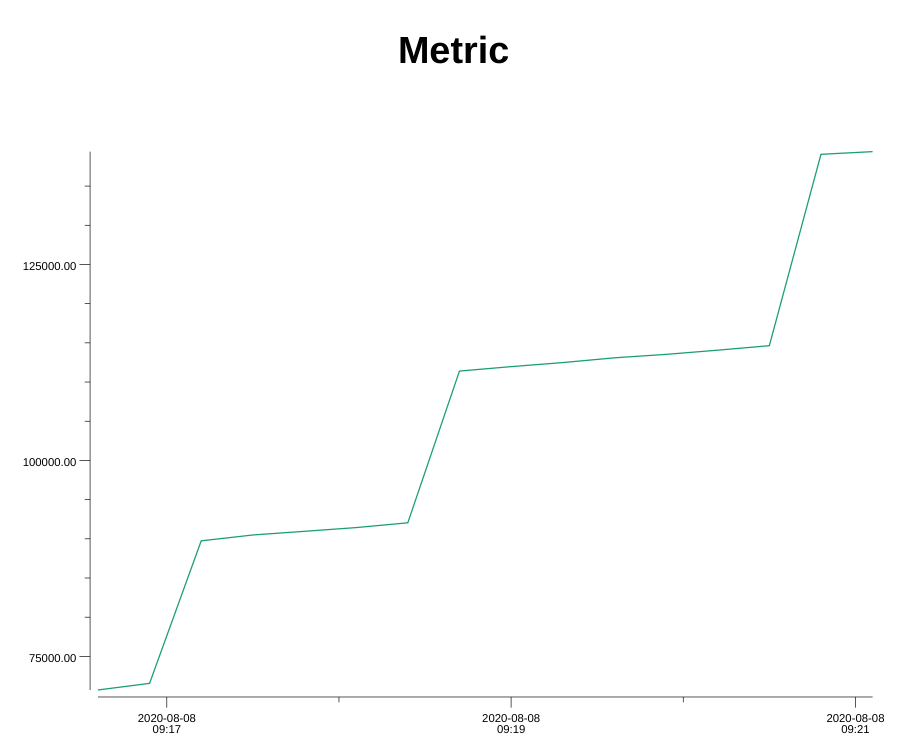
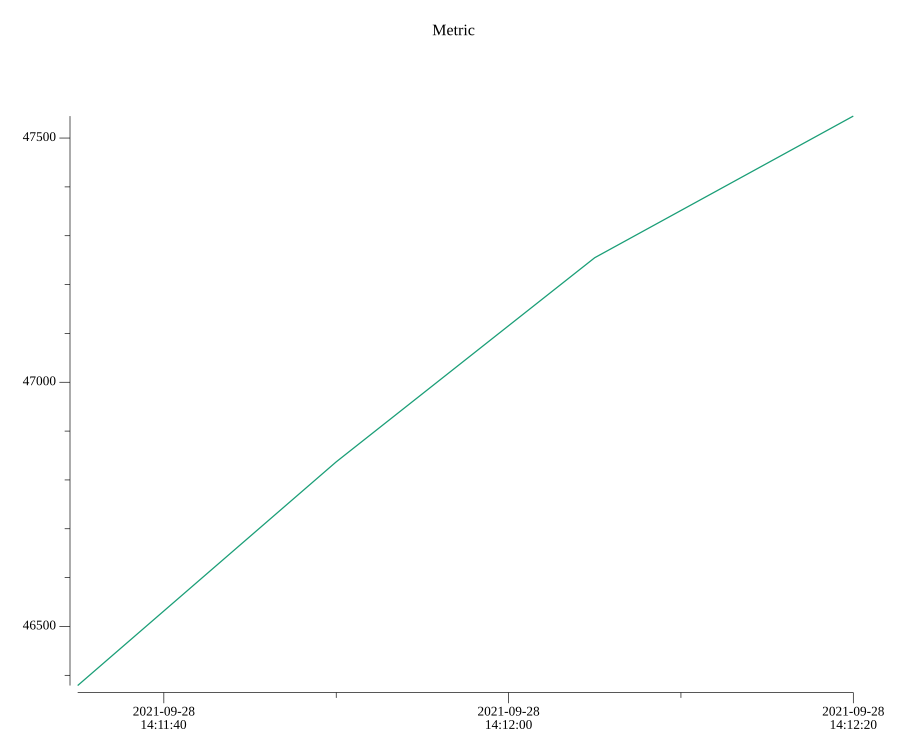
fix(plot): use default font and test

diff --git a/pkg/plot/plot.go b/pkg/plot/plot.go
@@ -9,7 +9,6 @@ import (
 
 	"github.com/prometheus/common/model"
 	"gonum.org/v1/plot"
-	"gonum.org/v1/plot/font"
 	"gonum.org/v1/plot/palette/brewer"
 	"gonum.org/v1/plot/plotter"
 	"gonum.org/v1/plot/vg"
@@ -20,26 +19,12 @@ import (
 var labelText = regexp.MustCompile(`(.*)`)
 
 // Plot creates a plot from metric data and saves it to a temporary file.
-// It's the callers responsibility to remove the returned file when no longer needed.
+// It's the callers' responsibility to remove the returned file when no longer needed.
 func Plot(metrics model.Matrix, title, format string) (io.WriterTo, error) {
 	p := plot.New()
-
-	titleFont, err := vg.MakeFont("Helvetica-Bold", vg.Centimeter)
-	if err != nil {
-		return nil, fmt.Errorf("failed to load font: %v", err)
-	}
-	textFont, err := vg.MakeFont("Helvetica", 3*vg.Millimeter)
-	if err != nil {
-		return nil, fmt.Errorf("failed to load font: %v", err)
-	}
-
 	p.Title.Text = title
-	p.Title.TextStyle = draw.TextStyle{Font: font.Font{Typeface: font.Typeface(titleFont.Name())}}
 	p.Title.Padding = 2 * vg.Centimeter
-	p.X.Tick.Marker = plot.TimeTicks{Format: "2006-01-02\n15:04"}
-	p.X.Tick.Label.Font = font.Font{Typeface: font.Typeface(textFont.Name())}
-	p.Y.Tick.Label.Font = font.Font{Typeface: font.Typeface(textFont.Name())}
-	p.Legend.TextStyle = draw.TextStyle{Font: font.Font{Typeface: font.Typeface(textFont.Name())}}
+	p.X.Tick.Marker = plot.TimeTicks{Format: "2006-01-02\n15:04:05"}
 	p.Legend.Top = true
 	p.Legend.YOffs = 15 * vg.Millimeter
 
@@ -82,29 +67,32 @@ func Plot(metrics model.Matrix, title, format string) (io.WriterTo, error) {
 	margin := 6 * vg.Millimeter
 	width := 24 * vg.Centimeter
 	height := 20 * vg.Centimeter
-	c, err := draw.NewFormattedCanvas(width, height, format)
-	if err != nil {
-		return nil, fmt.Errorf("failed to create canvas: %v", err)
+	c, err1 := draw.NewFormattedCanvas(width, height, format)
+	if err1 != nil {
+		return nil, fmt.Errorf("failed to create canvas: %v", err1)
 	}
 	p.Draw(draw.Crop(draw.New(c), margin, -margin, margin, -margin))
 
 	return c, nil
 }
 
-// PlotFile plots the metric and write to file
-func PlotFile(metrics model.Matrix, title string, format string, name string) error {
+// WriteToFile plots the metric and write to file
+func WriteToFile(metrics model.Matrix, title string, format string, name string) error {
 	w, err := Plot(metrics, title, format)
 	if err != nil {
 		return err
 	}
 
-	f, err := os.OpenFile(name, os.O_CREATE|os.O_WRONLY, 0666)
-	if err != nil {
+	f, err1 := os.OpenFile(name, os.O_CREATE|os.O_WRONLY, 0666)
+	if err1 != nil {
+		return err1
+	}
+
+	if _, err := w.WriteTo(f); err != nil {
 		return err
 	}
-	defer f.Close()
 
-	if _, err = w.WriteTo(f); err != nil {
+	if err := f.Close(); err != nil {
 		return err
 	}
 

diff --git a/pkg/plot/plot_test.go b/pkg/plot/plot_test.go
@@ -1,0 +1,58 @@
+package plot
+
+import (
+	"os"
+	"testing"
+
+	"github.com/prometheus/common/model"
+)
+
+func TestFile(t *testing.T) {
+	type args struct {
+		metrics model.Matrix
+		title   string
+		format  string
+		name    string
+	}
+	tests := []struct {
+		name    string
+		args    args
+		wantErr bool
+	}{
+		{
+			name: "normal",
+			args: args{
+				metrics: model.Matrix([]*model.SampleStream{
+					{
+						Metric: model.Metric{"foo": "bar"},
+						Values: []model.SamplePair{
+							{Timestamp: 0, Value: 0},
+							{Timestamp: 1000, Value: 0.5},
+							{Timestamp: 2000, Value: 1},
+							{Timestamp: 3000, Value: 0.5},
+							{Timestamp: 4000, Value: 0},
+						},
+					},
+				}),
+				title:  "metrics",
+				format: "png",
+				name:   "test.png",
+			},
+			wantErr: false,
+		},
+	}
+	for _, tt := range tests {
+		t.Run(tt.name, func(t *testing.T) {
+			if err := WriteToFile(tt.args.metrics, tt.args.title, tt.args.format, tt.args.name); (err != nil) != tt.wantErr {
+				t.Errorf("WriteToFile() error = %v, wantErr %v", err, tt.wantErr)
+			}
+			info, err := os.Lstat(tt.args.name)
+			if err != nil {
+				t.Errorf("WriteToFile() error = %v", err)
+			}
+			if info.Name() != tt.args.name {
+				t.Errorf("WriteToFile() error = incorrect name")
+			}
+		})
+	}
+}

diff --git a/cmd/grafana-plot/main.go b/cmd/grafana-plot/main.go
@@ -91,7 +91,7 @@ func main() {
 					matrix = append(matrix, m...)
 				}
 
-				err = plot.PlotFile(matrix, panel.Title, *format, name)
+				err = plot.WriteToFile(matrix, panel.Title, *format, name)
 				if err != nil {
 					// TODO: handle Nan data point
 					fmt.Printf("plot %s-%s failed %v\n", rowTitle, panel.Title, err)

diff --git a/cmd/prometheus-plot/main.go b/cmd/prometheus-plot/main.go
@@ -48,7 +48,7 @@ func main() {
 		*output = fmt.Sprintf("%s.%s", *title, *format)
 	}
 
-	if err := plot.PlotFile(m, *title, *format, *output); err != nil {
+	if err := plot.WriteToFile(m, *title, *format, *output); err != nil {
 		panic(err)
 	}
 }
